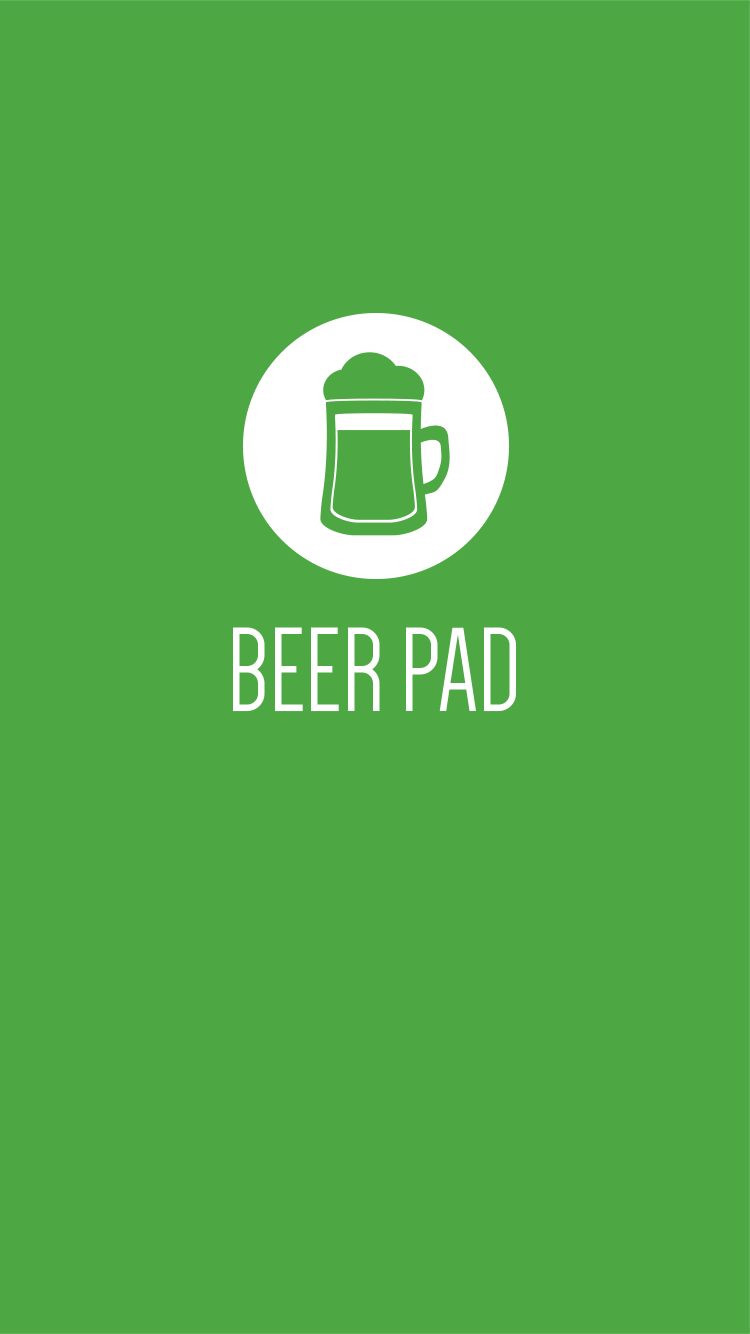
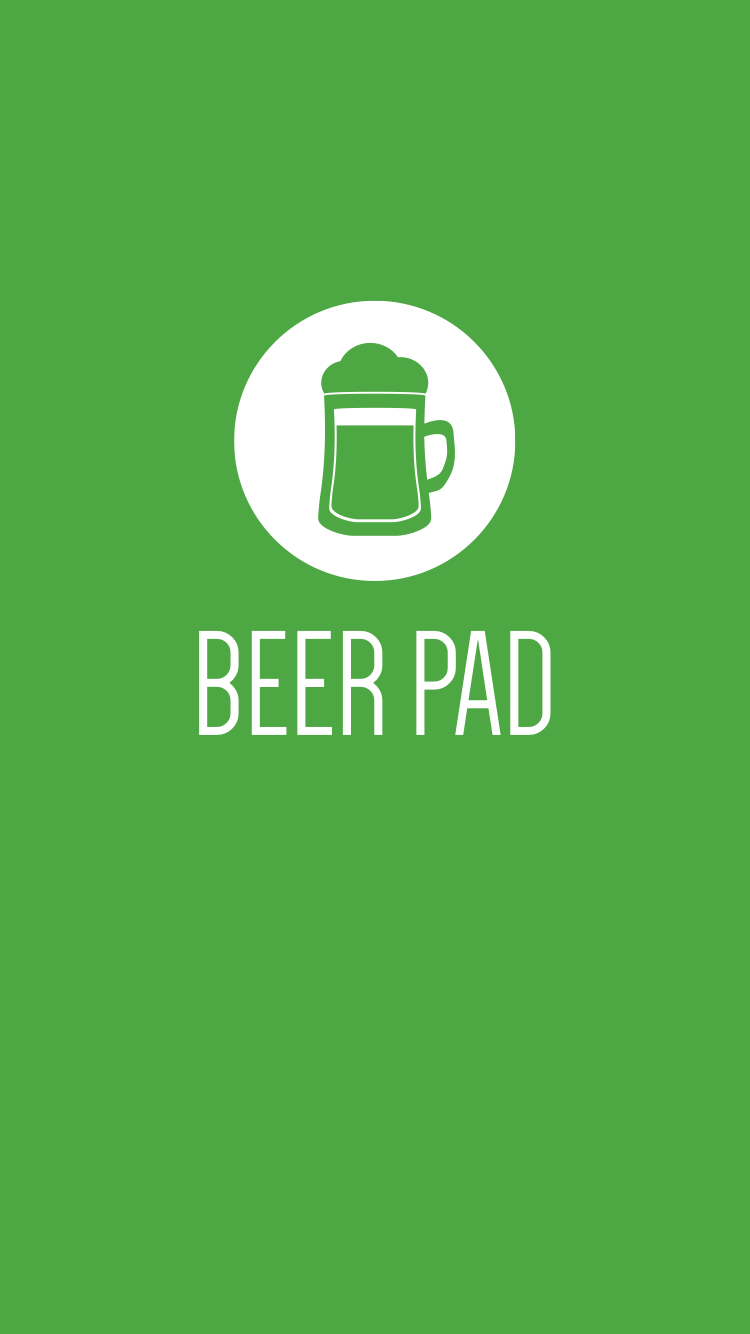
Update for iPhone X

diff --git a/app/migrations/201404291604237_beers.js b/app/migrations/201404291604237_beers.js
@@ -1,0 +1,28 @@
+migration.up = function(migrator) {
+    migrator.createTable({
+        columns: {
+            "name": "text",
+            "brewery": "text",
+            "rating": "integer",
+            "percent": "integer",
+            "establishment": "text",
+            "location": "text",
+            "notes": "text",
+            "date": "text",
+            "date_string": "text",
+            "beer_image": "text",
+            "latitude": "integer",
+            "longitude": "integer",
+            "favourite": "boolean"
+        },
+        adapter: {
+            type: "sql",
+            collection_name: "beers"
+        }
+    });
+};
+
+migration.down = function(migrator) {
+    migrator.dropTable("beers");
+};
+

diff --git a/app/lib/utils.js b/app/lib/utils.js
@@ -83,11 +83,12 @@ var utils = (function() {
      *  
      *  @param image {Object} image object taken from an ImageView, by using theImageView.image
      */
-    methods.viewBeerImage = function (image) {
+    methods.viewBeerImage = function (image, mainTabGroup) {
         var beerImage = Alloy.createController("BeerImage");
         beerImage.image.image = image;
         beerImageView = beerImage.getView();
-        Alloy.Globals.mainTabGroup.getActiveTab().open(beerImageView);
+        console.log('mainTabGroup', mainTabGroup);
+        mainTabGroup.getActiveTab().open(beerImageView);
     };
     
     

diff --git a/app/alloy.js b/app/alloy.js
@@ -28,6 +28,8 @@ Alloy.Globals.is_iPhone5 = platformHeight === 568;
 Alloy.Globals.is_iPhone6 = platformHeight === 667;
 Alloy.Globals.is_iPhone6andAbove = platformHeight >= 667;
 Alloy.Globals.is_iPhone6plus = platformHeight === 736;
+Alloy.Globals.is_iPhoneXandAbove = platformHeight >= 812 && Ti.Platform.displayCaps.platformWidth >= 375;
+
 
 Alloy.Globals.beerListSecondaryValue = 'brewery';
 

diff --git a/app/controllers/BeerDetail.js b/app/controllers/BeerDetail.js
@@ -81,7 +81,7 @@ $.ratingView.add(theStars);
 // View Image
 
 $.image.addEventListener("click", function () {
-   utils.viewBeerImage($.image.image); 
+   utils.viewBeerImage($.image.image, Alloy.Globals.mainTabGroup); 
 });
 
 
